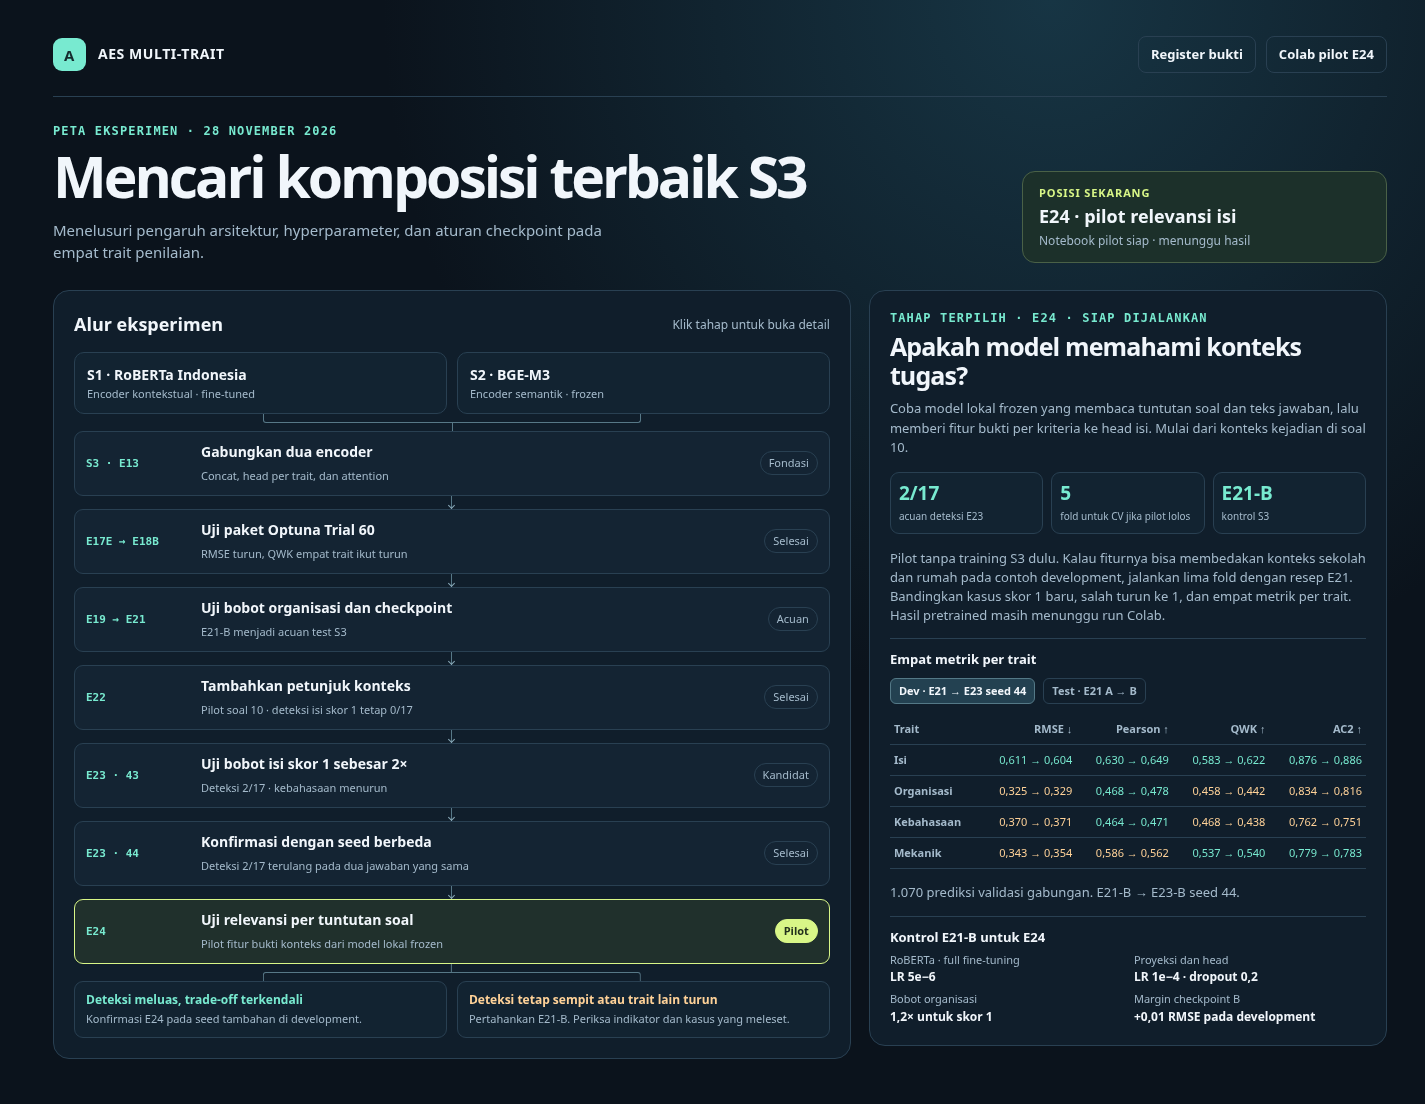
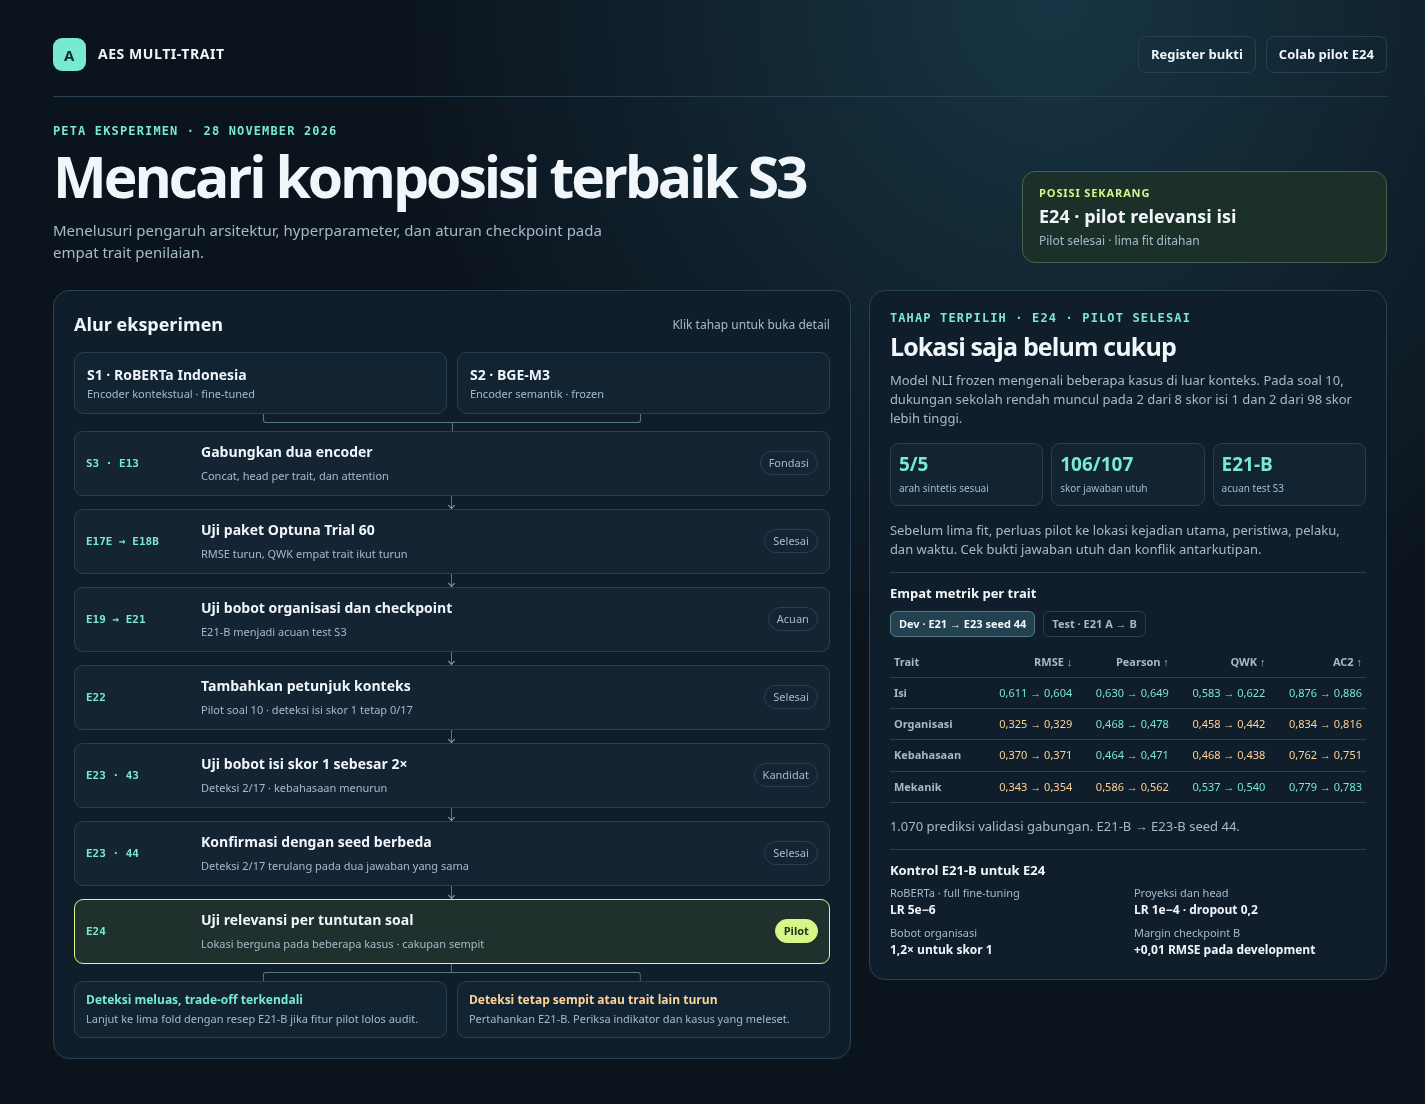
Archive E24 NLI pilot evidence and update progress

Changed region(s): [[0.6175, 0.2772, 0.9572, 0.9239], [0.1544, 0.8315, 0.3396, 0.8623], [0.7411, 0.2156, 0.8646, 0.2464]]

diff --git a/docs/skripsi/progres/Progress_AES_MultiTrait.html b/docs/skripsi/progres/Progress_AES_MultiTrait.html
@@ -88,7 +88,7 @@ td.good{color:var(--mint)} td.bad{color:var(--warm)} .recipe{display:grid;grid-t
 </header>
 <section class="hero">
   <div><div class="eyebrow">Peta eksperimen · 28 November 2026</div><h1>Mencari komposisi terbaik S3</h1><p class="desc">Menelusuri pengaruh arsitektur, hyperparameter, dan aturan checkpoint pada empat trait penilaian.</p></div>
-  <div class="current"><div class="current-tag">Posisi sekarang</div><div class="current-title">E24 · pilot relevansi isi</div><p class="desc">Notebook pilot siap · menunggu hasil</p></div>
+  <div class="current"><div class="current-tag">Posisi sekarang</div><div class="current-title">E24 · pilot relevansi isi</div><p class="desc">Pilot selesai · lima fit ditahan</p></div>
 </section>
 
 <main class="grid">
@@ -112,11 +112,11 @@ td.good{color:var(--mint)} td.bad{color:var(--warm)} .recipe{display:grid;grid-t
     <div class="connector" aria-hidden="true"></div>
     <button class="node" type="button" data-id="confirm" aria-pressed="false"><span class="code">E23 · 44</span><span><span class="title">Konfirmasi dengan seed berbeda</span><br><span class="subtitle">Deteksi 2/17 terulang pada dua jawaban yang sama</span></span><span class="badge">Selesai</span></button>
     <div class="connector" aria-hidden="true"></div>
-    <button class="node" type="button" data-id="now" aria-pressed="true"><span class="code">E24</span><span><span class="title">Uji relevansi per tuntutan soal</span><br><span class="subtitle">Pilot fitur bukti konteks dari model lokal frozen</span></span><span class="badge">Pilot</span></button>
+    <button class="node" type="button" data-id="now" aria-pressed="true"><span class="code">E24</span><span><span class="title">Uji relevansi per tuntutan soal</span><br><span class="subtitle">Lokasi berguna pada beberapa kasus · cakupan sempit</span></span><span class="badge">Pilot</span></button>
   </div>
   <div class="fork" aria-hidden="true" style="transform:rotate(180deg)"></div>
   <div class="branch" aria-label="Keputusan setelah konfirmasi">
-    <article><h3>Deteksi meluas, trade-off terkendali</h3><p>Konfirmasi E24 pada seed tambahan di development.</p></article>
+    <article><h3>Deteksi meluas, trade-off terkendali</h3><p>Lanjut ke lima fold dengan resep E21-B jika fitur pilot lolos audit.</p></article>
     <article><h3>Deteksi tetap sempit atau trait lain turun</h3><p>Pertahankan E21-B. Periksa indikator dan kasus yang meleset.</p></article>
   </div>
 </section>
@@ -124,7 +124,7 @@ td.good{color:var(--mint)} td.bad{color:var(--warm)} .recipe{display:grid;grid-t
 <aside class="panel detail" aria-label="Detail dan metrik eksperimen">
   <section aria-live="polite">
     <div id="detail-label" class="eyebrow">Tahap terpilih · E24</div>
-    <h2 id="detail-title">Apakah model memahami konteks tugas?</h2>
+    <h2 id="detail-title">Lokasi saja belum cukup</h2>
     <p id="detail-text">Pilot menilai apakah jawaban memenuhi tuntutan soal, misalnya lokasi kejadian. Fitur ini hanya masuk ke head isi.</p>
     <div class="metrics" id="stage-metrics"></div>
     <p id="detail-note"></p>
@@ -160,7 +160,7 @@ control: {label:"E19 → E21",title:"Checkpoint B jadi acuan test",text:"A memil
 context: {label:"E22",title:"Petunjuk kata belum cukup",text:"Lima indikator sederhana menyuplai bukti untuk soal 10, misalnya petunjuk sekolah, waktu, dan konteks domestik.",metrics:[["0/17","deteksi isi 1"],["3","skor 2–4 salah turun"],["0,4927","macro QWK rata-rata fold"]],note:"Kasus kerja bakti di rumah turun dari prediksi 3,54 ke 3,29 dan masih jauh dari kategori 1."},
 weight: {label:"E23 seed 43",title:"Deteksi isi naik, ada trade-off",text:"Bobot loss isi skor 1 menjadi dua kali bobot kategori 2–4, dengan rata-rata bobot dinormalisasi di training tiap fold.",metrics:[["2/17","deteksi isi 1"],["3","skor 2–4 salah turun"],["0,4319","RMSE rata-rata fold"]],note:"Kedua deteksi muncul di fold 4. QWK isi naik 0,5834 → 0,6001, sementara QWK kebahasaan turun 0,4685 → 0,4222."},
 confirm: {label:"E23 seed 44",title:"Dua kasus yang sama kembali terdeteksi",text:"Deteksi isi skor 1 tetap pada dua jawaban soal 10 di fold 4. QWK isi naik dari 0,5834 pada E21-B ke 0,6220, tetapi QWK kebahasaan dan organisasi turun.",metrics:[["2/17","deteksi isi 1"],["0,4283","RMSE rata-rata fold"],["0,5058","macro QWK rata-rata fold"]],note:"Tiga skor 2–4 keliru turun ke 1. E21-B tetap acuan test S3."},
-now: {label:"E24 · siap dijalankan",title:"Apakah model memahami konteks tugas?",text:"Coba model lokal frozen yang membaca tuntutan soal dan teks jawaban, lalu memberi fitur bukti per kriteria ke head isi. Mulai dari konteks kejadian di soal 10.",metrics:[["2/17","acuan deteksi E23"],["5","fold untuk CV jika pilot lolos"],["E21-B","kontrol S3"]],note:"Pilot tanpa training S3 dulu. Kalau fiturnya bisa membedakan konteks sekolah dan rumah pada contoh development, jalankan lima fold dengan resep E21. Bandingkan kasus skor 1 baru, salah turun ke 1, dan empat metrik per trait. Hasil pretrained masih menunggu run Colab."}
+now: {label:"E24 · pilot selesai",title:"Lokasi saja belum cukup",text:"Model NLI frozen mengenali beberapa kasus di luar konteks. Pada soal 10, dukungan sekolah rendah muncul pada 2 dari 8 skor isi 1 dan 2 dari 98 skor lebih tinggi.",metrics:[["5/5","arah sintetis sesuai"],["106/107","skor jawaban utuh"],["E21-B","acuan test S3"]],note:"Sebelum lima fit, perluas pilot ke lokasi kejadian utama, peristiwa, pelaku, dan waktu. Cek bukti jawaban utuh dan konflik antarkutipan."}
 };
 const tables={"development": [{"trait": "Isi", "left": [0.6106535503486199, 0.6302990246280895, 0.5834304644373294, 0.8764803784828475], "right": [0.6036927758864785, 0.6487757261658006, 0.6219890113697824, 0.8859782280967115]}, {"trait": "Organisasi", "left": [0.3254835273684586, 0.4682349512509877, 0.4582036427539578, 0.8340044487537787], "right": [0.3293656844558424, 0.4777037252453203, 0.4417417544453375, 0.8161277213352687]}, {"trait": "Kebahasaan", "left": [0.3698609641979615, 0.4636548079203568, 0.4684670445051595, 0.7620936566730506], "right": [0.3709024804709048, 0.4706563564059207, 0.4383473025348852, 0.7505552492714814]}, {"trait": "Mekanik", "left": [0.3433743129589874, 0.5861070101411148, 0.5368591911267415, 0.7793734825483394], "right": [0.3542401046526248, 0.5615640069774904, 0.5396596324029952, 0.782847718526663]}], "test": [{"trait": "Isi", "left": [0.662676660630752, 0.449691021945006, 0.412532637075718, 0.8604836803324158], "right": [0.6635267458287767, 0.4539510221342545, 0.4211833584671338, 0.8596514288787054]}, {"trait": "Organisasi", "left": [0.3124135372625135, 0.3956543770320512, 0.3274725274725275, 0.8453191345959427], "right": [0.3167215121532097, 0.3937522182922586, 0.3466192170818505, 0.844200807847663]}, {"trait": "Kebahasaan", "left": [0.3857213069841015, 0.4840550097430594, 0.3793103448275863, 0.6909997547617102], "right": [0.3867025278766675, 0.4749433933756147, 0.357947434292866, 0.6885277420791127]}, {"trait": "Mekanik", "left": [0.3223247722548008, 0.6112107085988246, 0.5263157894736842, 0.7924325602941031], "right": [0.3280915749078391, 0.595568372884082, 0.5351576658209496, 0.7984282907662082]}]};
 const displayNum=n=>n.toFixed(3).replace(".",",");

diff --git a/scripts/build_aes_evidence_register.py b/scripts/build_aes_evidence_register.py
@@ -286,6 +286,7 @@ def build_workbook():
             intro, fingerprint, code_hash = run, None, None
             link = project_url(path, branch) if path else None
         status = ('Hasil terarsip' if archive else 'Menunggu ZIP seed 44' if run == 'E23-Seed44'
+                  else 'Hasil pilot terarsip' if run == 'E24' and (ARCHIVE / 'E24/Ringkasan_Pilot_NLI.json').exists()
                   else 'Arsip repo sebelumnya' if run in ('E1','E2','E3','E4','E17D')
                   else 'Dinonaktifkan' if run == 'E18A' else 'Resep tersedia')
         notebooks.append((run, intro, status, link, fingerprint, code_hash))

diff --git a/eksperimen/03_tiga_input_multi_trait/README.md b/eksperimen/03_tiga_input_multi_trait/README.md
@@ -31,7 +31,7 @@ E4 terbaik nominal, tetapi peningkatan test terhadap E2 hanya 0,000101 poin (0,0
 | E22 | Pilot fitur konteks soal 10 khusus prediksi isi pada S3, lima fold development dengan resep E21 | 0,427536 (B) | — | [File](notebooks/AES_Reset_E22_S3_Bukti_Konteks_Isi.ipynb) | [Arsip](output/checkpoints/E22.json) |
 | E23 | Bobot loss isi skor 1 sebesar 2×, lima fold development dengan resep E21 | 0,431853 (B) | — | [File](notebooks/AES_Reset_E23_S3_Bobot_Isi_2x.ipynb) | [Arsip](output/checkpoints/E23.json) |
 | E23 konfirmasi | Bobot isi 2× pada lima fold yang sama dengan seed dasar 44 | 0,428296 (B) | — | [File](notebooks/AES_Reset_E23_Konfirmasi_Seed44.ipynb) | [Arsip](output/checkpoints/E23-Seed44.json) |
-| E24 | Pilot NLI frozen untuk cek konteks sekolah/rumah di soal 10 | Siap dijalankan | — | [File](notebooks/AES_Reset_E24_Pilot_Bukti_Konteks_NLI.ipynb) | — |
+| E24 | Pilot NLI frozen untuk cek konteks sekolah/rumah di soal 10 | Pilot selesai | — | [File](notebooks/AES_Reset_E24_Pilot_Bukti_Konteks_NLI.ipynb) | [Hasil pilot](output/checkpoints/E24/README.md) |
 | E18A | BGE relevance/cosine pada trait Isi. | Dinonaktifkan; jangan diperlakukan sebagai jalur aktif. | [Branch E18A](https://github.com/MalikHariyanto/Automated_Essay_Scoring/tree/codex/e18a-isi-bge-relevance) |
 
 [Register paper dan konfigurasi](../../docs/skripsi/Register_Bukti_AES_MultiTrait.xlsx) · [Arsip checkpoint](output/checkpoints/README.md)

diff --git a/eksperimen/03_tiga_input_multi_trait/output/checkpoints/E24/README.md b/eksperimen/03_tiga_input_multi_trait/output/checkpoints/E24/README.md
@@ -1,0 +1,9 @@
+# E24 · Hasil pilot bukti lokasi
+
+[Ringkasan numerik dan checksum](Ringkasan_Pilot_NLI.json). Inferensi CPU pretrained pada 107 jawaban development soal 10. Dari jumlah itu, 106 memiliki skor untuk jawaban utuh. Lima contoh sintetis dengan arah yang ditetapkan memberi urutan skor yang diharapkan. Contoh tanpa lokasi memiliki kedua skor implikasi di bawah 0,001.
+
+Pada jawaban utuh, skor dukungan sekolah di bawah 0,50 muncul pada dua dari delapan label isi 1 dan dua dari 98 label isi 2–4. Angka ini adalah pemeriksaan deskriptif setelah pilot, tanpa perubahan kategori atau ambang produksi. Label isi dipakai untuk mengelompokkan hasil dan tidak mengukur kebenaran lokasi. Delapan jawaban memberi dukungan minimal 0,90 untuk kedua lokasi. Tujuh jawaban punya skor kutipan rumah minimal 0,90 dengan skor rumah utuh di bawah 0,50.
+
+**Keputusan.** Pertahankan E21-B sebagai acuan S3. Lanjutkan pilot development dengan lebih dari satu tuntutan soal sebelum mempertimbangkan lima fit. Utamakan lokasi kejadian utama, peristiwa, pelaku, dan waktu. Tinjau kasus ketika potongan teks dan jawaban utuh memberi sinyal berbeda. Skor NLI tidak langsung diubah menjadi skor isi.
+
+Workbook audit dan kutipan per jawaban disimpan privat.

diff --git a/eksperimen/03_tiga_input_multi_trait/output/checkpoints/README.md b/eksperimen/03_tiga_input_multi_trait/output/checkpoints/README.md
@@ -5,6 +5,7 @@ Folder ini menyimpan konfigurasi efektif dan bukti agregat yang bisa dipakai kem
 | Artefak | Yang dicatat |
 |---|---|
 | JSON per run | Model dan revisi, hyperparameter, split dan kode, hash ZIP/Excel, epoch A/B, metrik tiap trait, deteksi skor rendah, bobot dan riwayat training agregat |
+| E24 | [Ringkasan pilot NLI](E24/README.md) dan checksum terpisah dari hasil CV. |
 | E17E | Trial pencarian, lima-fold konfirmasi, cek stabilitas, dan konfigurasi akhir. ID 52 dan 60 adalah kandidat dari tahap berbeda. |
 | E14 / E14-S1S2 | Workbook dari unggahan terpisah, dipadankan dengan checksum pada manifest asli dan dikemas sementara untuk proses ekspor. Kolom skenario pada E14-S1S2 membedakan S1 dan S2. |
 | E5 | Pasangan workbook unggahan dengan metadata dataset, split, kode, dan konfigurasi identik. Checksum dibuat dari pasangan tersebut karena manifest run asli belum tersedia. |
